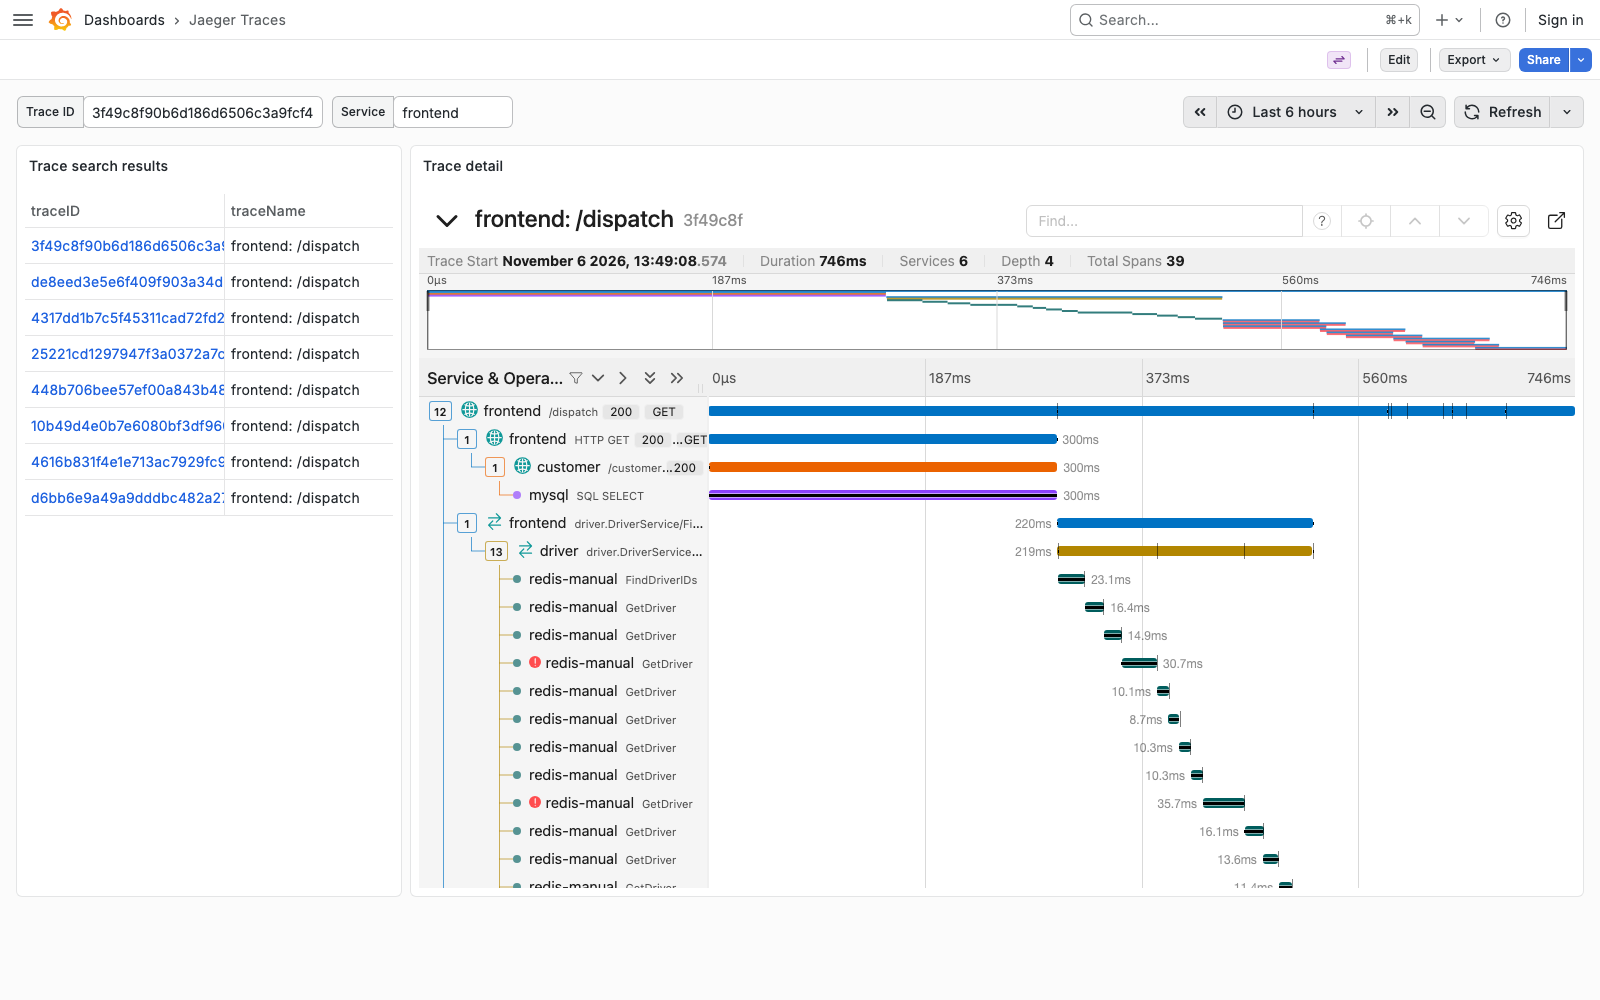
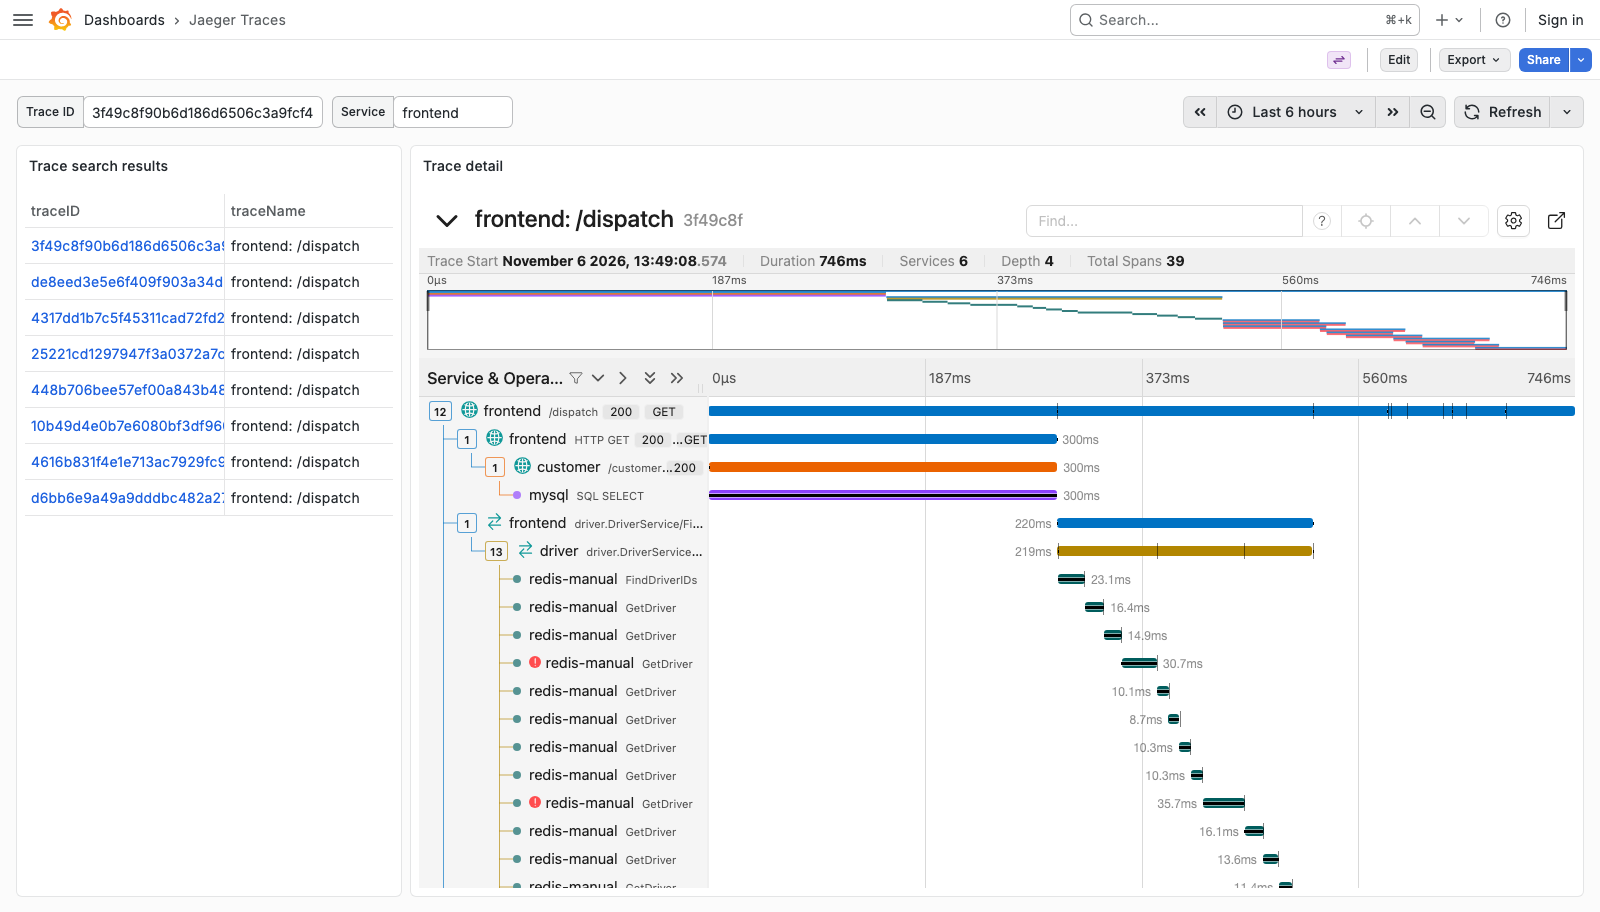
docs(features): Outline the light-mode screenshots and trim blank space from two captures
A light capture has a white page that blends into the site's background,
so the stylesheet draws a thin border around it; the dark capture stands
out on its own and gets none. The Monitor tab and Grafana captures are
cropped to their content, removing the empty page below it.

diff --git a/assets/scss/_styles_project.scss b/assets/scss/_styles_project.scss
@@ -69,8 +69,15 @@ html[data-theme-init] * {
 
 // The screenshot shortcode emits one image per color mode, and the
 // data-bs-theme attribute that Docsy sets on <html> picks the visible one.
+// Only the light capture gets a border: its white page blends into the
+// site's background, while the dark capture stands out on its own.
 .screenshot {
   margin: 1rem 0;
+}
+
+.screenshot--light img {
+  border: 1px solid var(--bs-border-color);
+  border-radius: 0.25rem;
 }
 
 .screenshot--dark {
